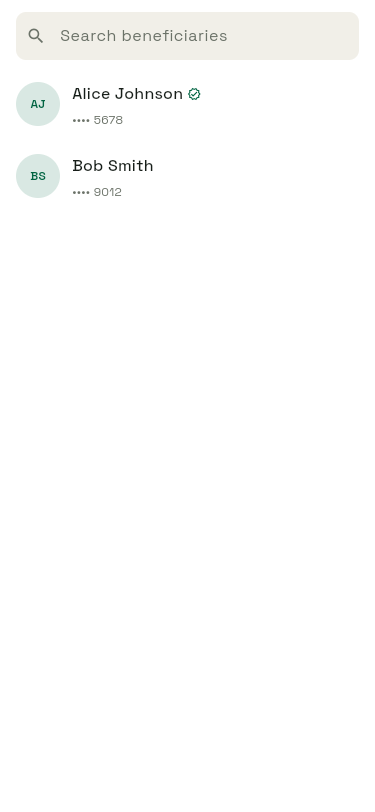
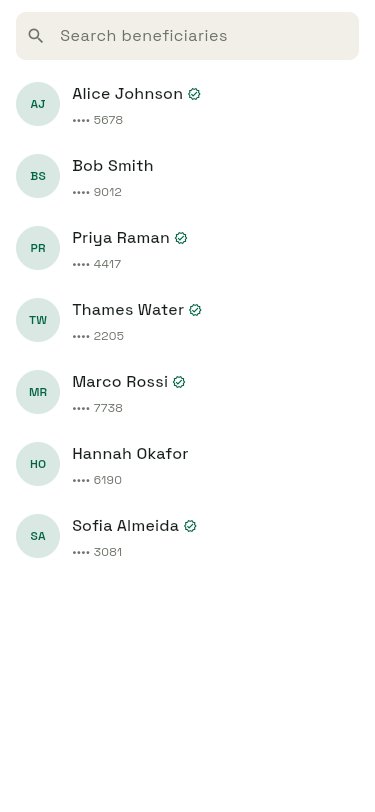
docs: give the picker and notification captures realistic sample data
The two genuinely full-screen list components were shot with two
beneficiaries and five notifications, so most of the frame was empty. Seven
and eight respectively fill the viewport the way a real account would, and
the richer data is better for anyone browsing the interactive gallery too.

Claude-Session: https://claude.ai/code/session_01AKpuFnYLFbMU7DKx4VkwDL

diff --git a/example/lib/gallery/component_registry.dart b/example/lib/gallery/component_registry.dart
@@ -1145,6 +1145,41 @@ final List<GalleryEntry> kGalleryEntries = [
           type: BeneficiaryType.bankTransfer,
           isVerified: false,
         ),
+        const BankBeneficiary(
+          id: 'ben-3',
+          name: 'Priya Raman',
+          maskedAccount: '•••• 4417',
+          type: BeneficiaryType.bankTransfer,
+          isVerified: true,
+        ),
+        const BankBeneficiary(
+          id: 'ben-4',
+          name: 'Thames Water',
+          maskedAccount: '•••• 2205',
+          type: BeneficiaryType.internal,
+          isVerified: true,
+        ),
+        const BankBeneficiary(
+          id: 'ben-5',
+          name: 'Marco Rossi',
+          maskedAccount: '•••• 7738',
+          type: BeneficiaryType.international,
+          isVerified: true,
+        ),
+        const BankBeneficiary(
+          id: 'ben-6',
+          name: 'Hannah Okafor',
+          maskedAccount: '•••• 6190',
+          type: BeneficiaryType.international,
+          isVerified: false,
+        ),
+        const BankBeneficiary(
+          id: 'ben-7',
+          name: 'Sofia Almeida',
+          maskedAccount: '•••• 3081',
+          type: BeneficiaryType.bankTransfer,
+          isVerified: true,
+        ),
       ],
       onSelected: (_) {},
     ),
@@ -2098,7 +2133,7 @@ final List<GalleryEntry> kGalleryEntries = [
         name: 'count',
         label: 'Notification count',
         type: ParamType.intType,
-        defaultValue: 5,
+        defaultValue: 8,
         min: 0,
         max: 10,
       ),
